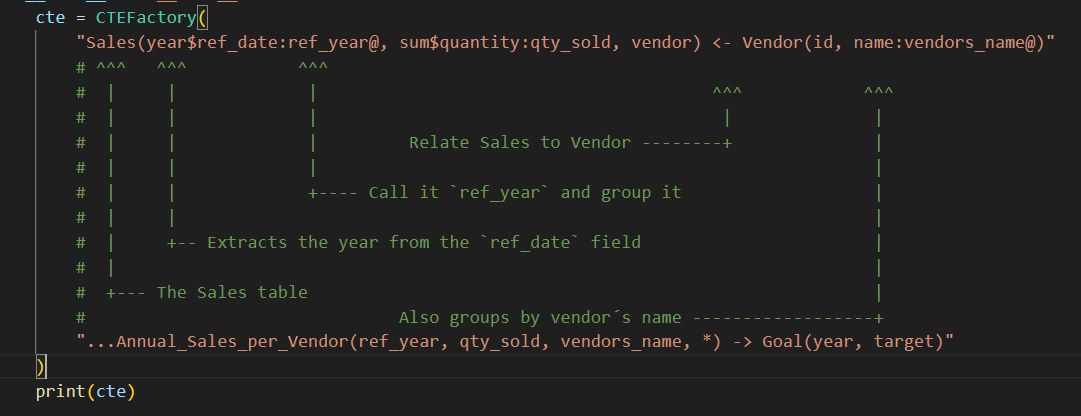
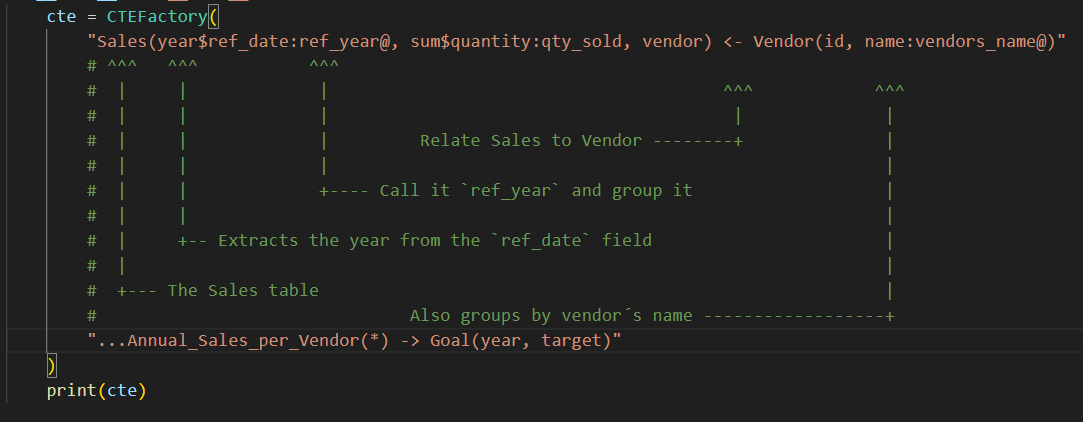
[feat] CTEFactory Cypher with (*) for all fields

diff --git a/sql_blocks/sql_blocks.py b/sql_blocks/sql_blocks.py
@@ -2203,14 +2203,25 @@ class CTEFactory:
         Table1(field, `function$`field`:alias`, `group@`) <- Table2(field)
         `...`MainTable(field)
         """
-        self.main = None
         if parser_class(txt) == CypherParser:
-            if '...' in txt:
-                txt, other = txt.split('...')
-                self.main = detect(other)
-                alias = self.main.table_name
+            txt, main_script = txt.split('...')
             query_list = Select.parse(txt, CypherParser)
-            if not self.main:
+            if main_script:
+                main_script = ''.join(main_script)
+                if '(*)' in main_script:
+                    field_list = [
+                        re.split(
+                            r'\bas\b|\bAS\b', field
+                        )[-1].strip()
+                        for query in query_list
+                        for field in query.values.get(SELECT, [])
+                    ]
+                    main_script = main_script.replace('(*)', '({}, *)'.format(
+                        ','.join(field_list)
+                    ))
+                self.main = detect(main_script)
+                alias = self.main.table_name
+            else:
                 alias = '_'.join(query.table_name for query in query_list)
                 self.main = Select(alias)
                 self.main.break_lines = False
@@ -2439,6 +2450,6 @@ if __name__ == "__main__":
         #  |                                                                           |
         #  +--- The Sales table                                                        |
         #                               Also groups by vendor´s name ------------------+ 
-        "...Annual_Sales_per_Vendor(ref_year, qty_sold, vendors_name, *) -> Goal(year, target)"
+        "...Annual_Sales_per_Vendor(*) -> Goal(year, target)"
     )
     print(cte)

diff --git a/setup.py b/setup.py
@@ -3,7 +3,7 @@ from setuptools import setup
 
 setup(
     name = 'sql_blocks',
-    version = '1.20250712',
+    version = '1.20250713',
     author = 'Júlio Cascalles',
     author_email = 'julio.cascalles@outlook.com',
     packages = ['sql_blocks'],

diff --git a/README.md b/README.md
@@ -980,6 +980,13 @@ results...
 
 #### 17.3.1 - You can also pass a Cypher script like in the example below:
 
+    cte = CTEFactory(
+        "Sales(year$ref_date:ref_year@, sum$quantity:qty_sold, vendor)"
+        " <- Vendor(id, name:vendors_name@)"
+        "...Annual_Sales_per_Vendor(*) -> Goal(year, target)"
+    )
+    print(cte)
+
 ![image](https://raw.githubusercontent.com/julio-cascalles/sql_blocks/refs/heads/master/assets/CTEFactory.png)
 
 results...
